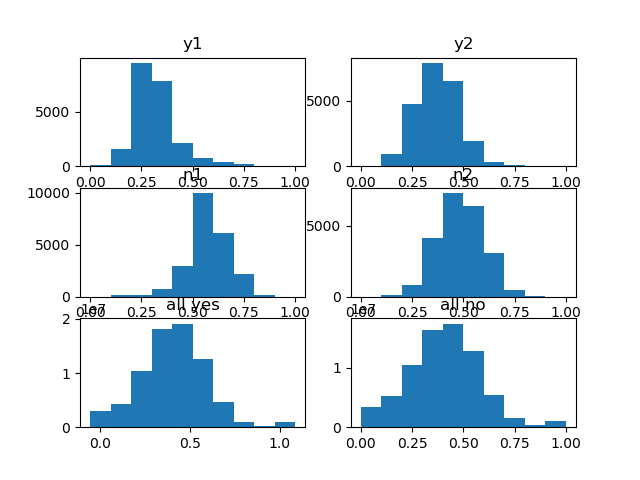
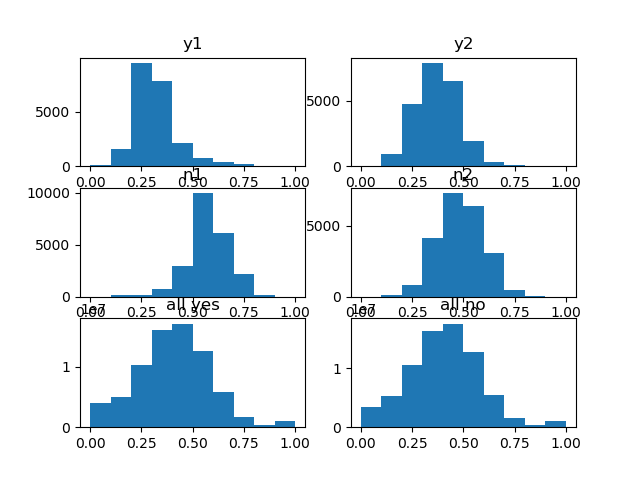
f

diff --git a/LargeFOV/HumanTest.py b/LargeFOV/HumanTest.py
@@ -39,7 +39,7 @@ def f1_acc(y_true, y_pred):
     return f1_score
 
 DataDir = '/home/admin/Desktop/Preprocess'
-DataFile = h5py.File(os.path.join(DataDir, 'FOV150_Num10000_noside.hdf5'), 'r+')
+DataFile = h5py.File(os.path.join(DataDir, 'FOV150_Num10000_noside_normed.hdf5'), 'r+')
 FOVSize = DataFile.attrs['FOVSize']
 NumFOVs = DataFile.attrs['NumFOVs']
 try:
@@ -55,6 +55,12 @@ TestNo = DataFile['TestNo']
 TestYes = DataFile['TestYes']
 ValNo = DataFile['ValNo']
 ValYes = DataFile['ValYes']
+
+for i in range(20):
+	plt.imshow(np.reshape(TrainYes[i], (FOVSize, FOVSize)), cmap = 'gray')
+	plt.show(block = False)
+	plt.waitforbuttonpress(10)
+	plt.close()
 
 TestData = np.concatenate((TestNo,TestYes), axis=0)[:,:,:,np.newaxis]
 TestAnswers = np.ones(len(TestNo) + len(TestYes))
